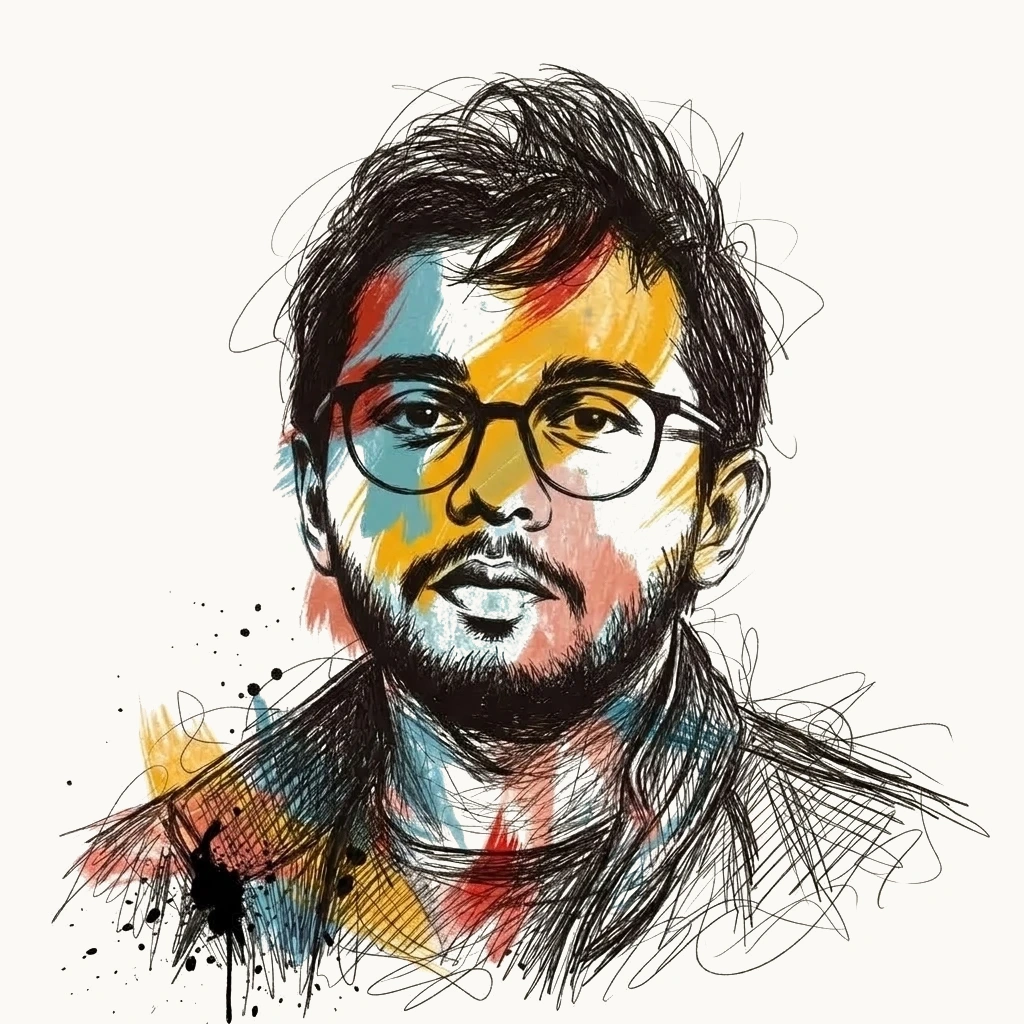
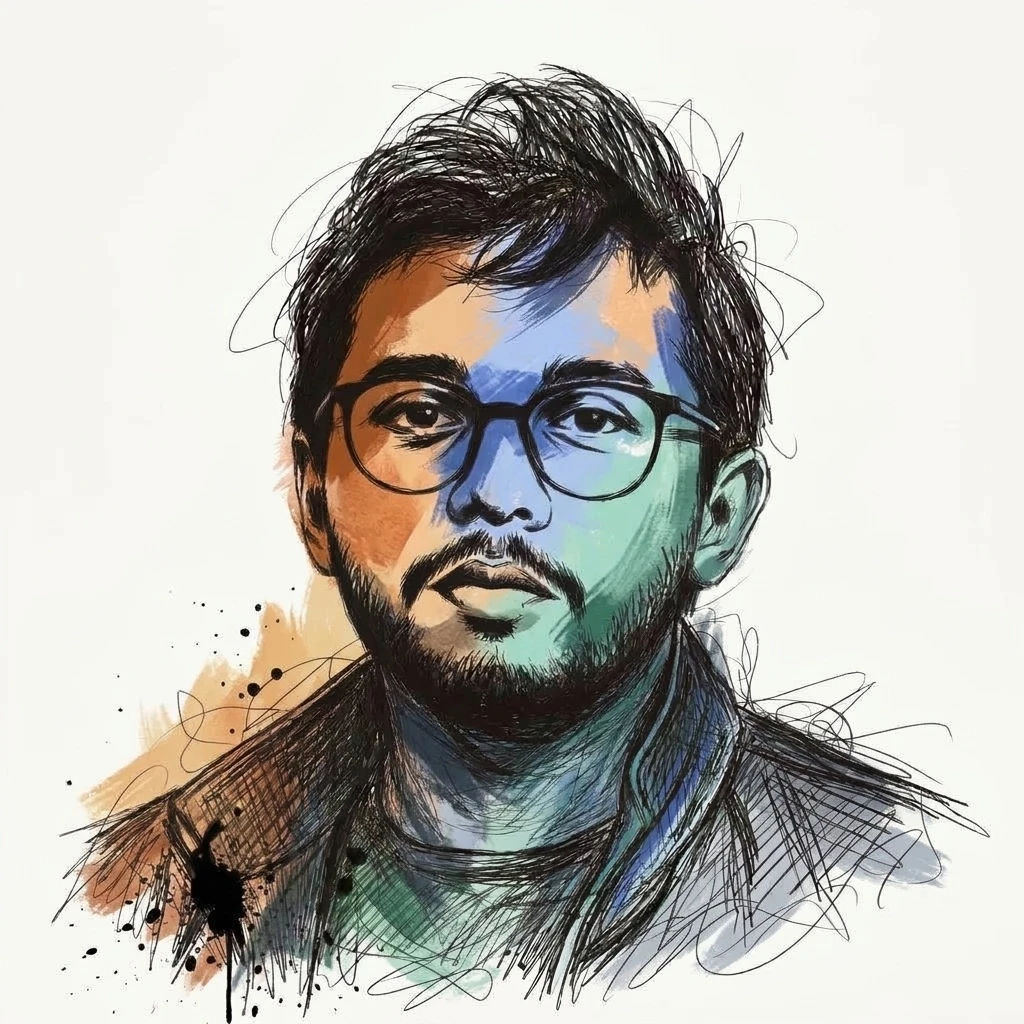
dynamic theme added

Changed region(s): [[0.0625, 0.0625, 0.9375, 0.9688]]

diff --git a/src/styles/tokens.css b/src/styles/tokens.css
@@ -162,6 +162,10 @@
 	--slot: var(--card-bg);
 	--hero-orb-1: #bcc7d4;
 	--hero-orb-2: #cfd6cc;
+	--portrait-grad-start: #f4f6f8;
+	--portrait-grad-end: #e7ecf0;
+	--portrait-orb-1: rgba(188, 199, 212, 0.55);
+	--portrait-orb-2: rgba(207, 214, 204, 0.55);
 }
 
 :root[data-theme="light"][data-mode="educator"],
@@ -181,6 +185,10 @@
 	--slot: var(--card-bg);
 	--hero-orb-1: #9edbc6;
 	--hero-orb-2: #b6dce6;
+	--portrait-grad-start: #eff8f4;
+	--portrait-grad-end: #e0f0e9;
+	--portrait-orb-1: rgba(158, 219, 198, 0.55);
+	--portrait-orb-2: rgba(182, 220, 230, 0.55);
 }
 
 :root[data-theme="light"][data-mode="researcher"],
@@ -200,6 +208,10 @@
 	--slot: var(--card-bg);
 	--hero-orb-1: #adc5f0;
 	--hero-orb-2: #bfd0f2;
+	--portrait-grad-start: #eff4fc;
+	--portrait-grad-end: #e2ebfa;
+	--portrait-orb-1: rgba(173, 197, 240, 0.55);
+	--portrait-orb-2: rgba(191, 208, 242, 0.55);
 }
 
 :root[data-theme="light"][data-mode="stories"],
@@ -219,6 +231,10 @@
 	--slot: var(--card-bg);
 	--hero-orb-1: #edc09a;
 	--hero-orb-2: #e8d5a3;
+	--portrait-grad-start: #faf4ed;
+	--portrait-grad-end: #f3e6d6;
+	--portrait-orb-1: rgba(237, 192, 154, 0.55);
+	--portrait-orb-2: rgba(232, 213, 163, 0.55);
 }
 
 :root[data-theme="dark"][data-mode="developer"] {
@@ -381,6 +397,80 @@ body {
 	-webkit-font-smoothing: antialiased;
 	-moz-osx-font-smoothing: grayscale;
 	text-rendering: optimizeLegibility;
+}
+
+.page-mesh-bg {
+	position: fixed;
+	inset: 0;
+	overflow: hidden;
+	pointer-events: none;
+	z-index: -1;
+}
+
+.page-orb {
+	position: absolute;
+	border-radius: 999px;
+	filter: blur(110px);
+	opacity: 0.42;
+	will-change: transform;
+	transition: background-color 0.55s ease;
+}
+
+.page-orb-1 {
+	width: clamp(320px, 48vw, 680px);
+	height: clamp(320px, 48vw, 680px);
+	top: -14%;
+	left: -10%;
+	background: var(--hero-orb-1, #bcc7d4);
+	animation: pageOrbDriftA 20s ease-in-out infinite alternate;
+}
+
+.page-orb-2 {
+	width: clamp(300px, 44vw, 640px);
+	height: clamp(300px, 44vw, 640px);
+	top: 28%;
+	right: -12%;
+	background: var(--hero-orb-2, #cfd6cc);
+	animation: pageOrbDriftB 24s ease-in-out infinite alternate;
+}
+
+.page-orb-3 {
+	width: clamp(280px, 42vw, 600px);
+	height: clamp(280px, 42vw, 600px);
+	bottom: -16%;
+	left: 18%;
+	background: var(--hero-orb-1, #bcc7d4);
+	opacity: 0.28;
+	animation: pageOrbDriftC 26s ease-in-out infinite alternate;
+}
+
+@keyframes pageOrbDriftA {
+	0% { transform: translate3d(0, 0, 0) scale(1); }
+	100% { transform: translate3d(6%, 8%, 0) scale(1.1); }
+}
+
+@keyframes pageOrbDriftB {
+	0% { transform: translate3d(0, 0, 0) scale(1); }
+	100% { transform: translate3d(-7%, -6%, 0) scale(1.08); }
+}
+
+@keyframes pageOrbDriftC {
+	0% { transform: translate3d(0, 0, 0) scale(1); }
+	100% { transform: translate3d(5%, -7%, 0) scale(1.07); }
+}
+
+@media (prefers-reduced-motion: reduce) {
+	.page-orb {
+		animation: none;
+	}
+}
+
+:root[data-theme="dark"] .page-orb {
+	opacity: 0.3;
+}
+
+:root[data-theme="dark"] .page-orb-3 {
+	opacity: 0.2;
 }
 
 a {

diff --git a/HERO_PORTRAIT_PLAN.md b/HERO_PORTRAIT_PLAN.md
@@ -1,0 +1,33 @@
+# Hero Portrait & Gradient Integration Plan
+
+## Problem Summary
+- The circular portrait stage (`.face-stage` in `src/components/home/HomeHero.astro`) currently uses a flat `#fbf9f5` background in Dark Mode and doesn't carry the active tab's gradient wash.
+- The colored portrait (`portrait-designer.webp` and the left half of `portrait-split-half.webp`) uses fixed paint colors (teal/yellow/red) that clash with the `Developer` (Graphite Slate), `Educator` (Sage), `Researcher` (Academic Blue), and `Stories` (Terracotta) palettes.
+
+---
+
+## Plan (3 Tasks)
+
+### 1. Generate 4 Palette-Matched Colored Portrait Assets
+- Instead of flat CSS tinting (which turns multi-tone paint strokes into a single hue), create **4 dedicated colored portrait variants** from `public/images/portrait-designer.webp` while keeping `public/images/portrait-coder.webp` shared:
+  - `public/images/portrait-designer-developer.webp` — Graphite Slate (`#2c3540`), cool steel (`#bcc7d4`), muted stone (`#cfd6cc`)
+  - `public/images/portrait-designer-educator.webp` — Deep Sage (`#245c4a`), soft mint (`#9edbc6`), sky teal (`#b6dce6`)
+  - `public/images/portrait-designer-researcher.webp` — Academic Blue (`#2b497a`), periwinkle (`#adc5f0`), mist blue (`#bfd0f2`)
+  - `public/images/portrait-designer-stories.webp` — Terracotta (`#8f4b24`), warm peach (`#edc09a`), parchment gold (`#e8d5a3`)
+- Apply `mix-blend-mode: multiply` on `#designer-layer`, `#coder-layer`, and `#face-base` so the white sketch background becomes transparent and lets the `.face-stage` gradient show through cleanly.
+- Swap the `#designer-layer` image `src` (and hide/replace the static `#face-base` left half with the active mode's clipped `#designer-layer` + `#coder-layer` at rest) on `home-mode-change`.
+
+### 2. Give `.face-stage` the Same Soft Gradient as the Active Tab
+- Replace the flat background on `.face-stage` with a soft, multi-stop gradient built from the active tab's light pastel tokens:
+  ```css
+  background: radial-gradient(circle at 25% 25%, var(--portrait-orb-1), transparent 65%),
+              radial-gradient(circle at 75% 80%, var(--portrait-orb-2), transparent 65%),
+              linear-gradient(150deg, var(--portrait-grad-start), var(--portrait-grad-end));
+  ```
+- This makes the circular portrait feel seamlessly integrated with the animated page mesh behind it.
+
+### 3. Keep the Light Pastel Gradient Inside `.face-stage` for Dark Mode
+- Because `portrait-coder.webp` and `portrait-designer.webp` are dark-ink drawings, putting them on a dark background hides the linework.
+- **Centralize portrait tokens in `src/styles/tokens.css`:**
+  - Define `--portrait-grad-start`, `--portrait-grad-end`, `--portrait-orb-1`, and `--portrait-orb-2` per `data-mode` using the **Light Mode pastel values** in **both** Light and Dark themes.
+  - Result: In Dark Mode, the outer page stays deep & luminous (`#111418`, `#0d1714`, etc.), while the circular portrait medallion displays the active tab's soft light pastel gradient—keeping the ink sketch sharp and the colored half vibrant.
